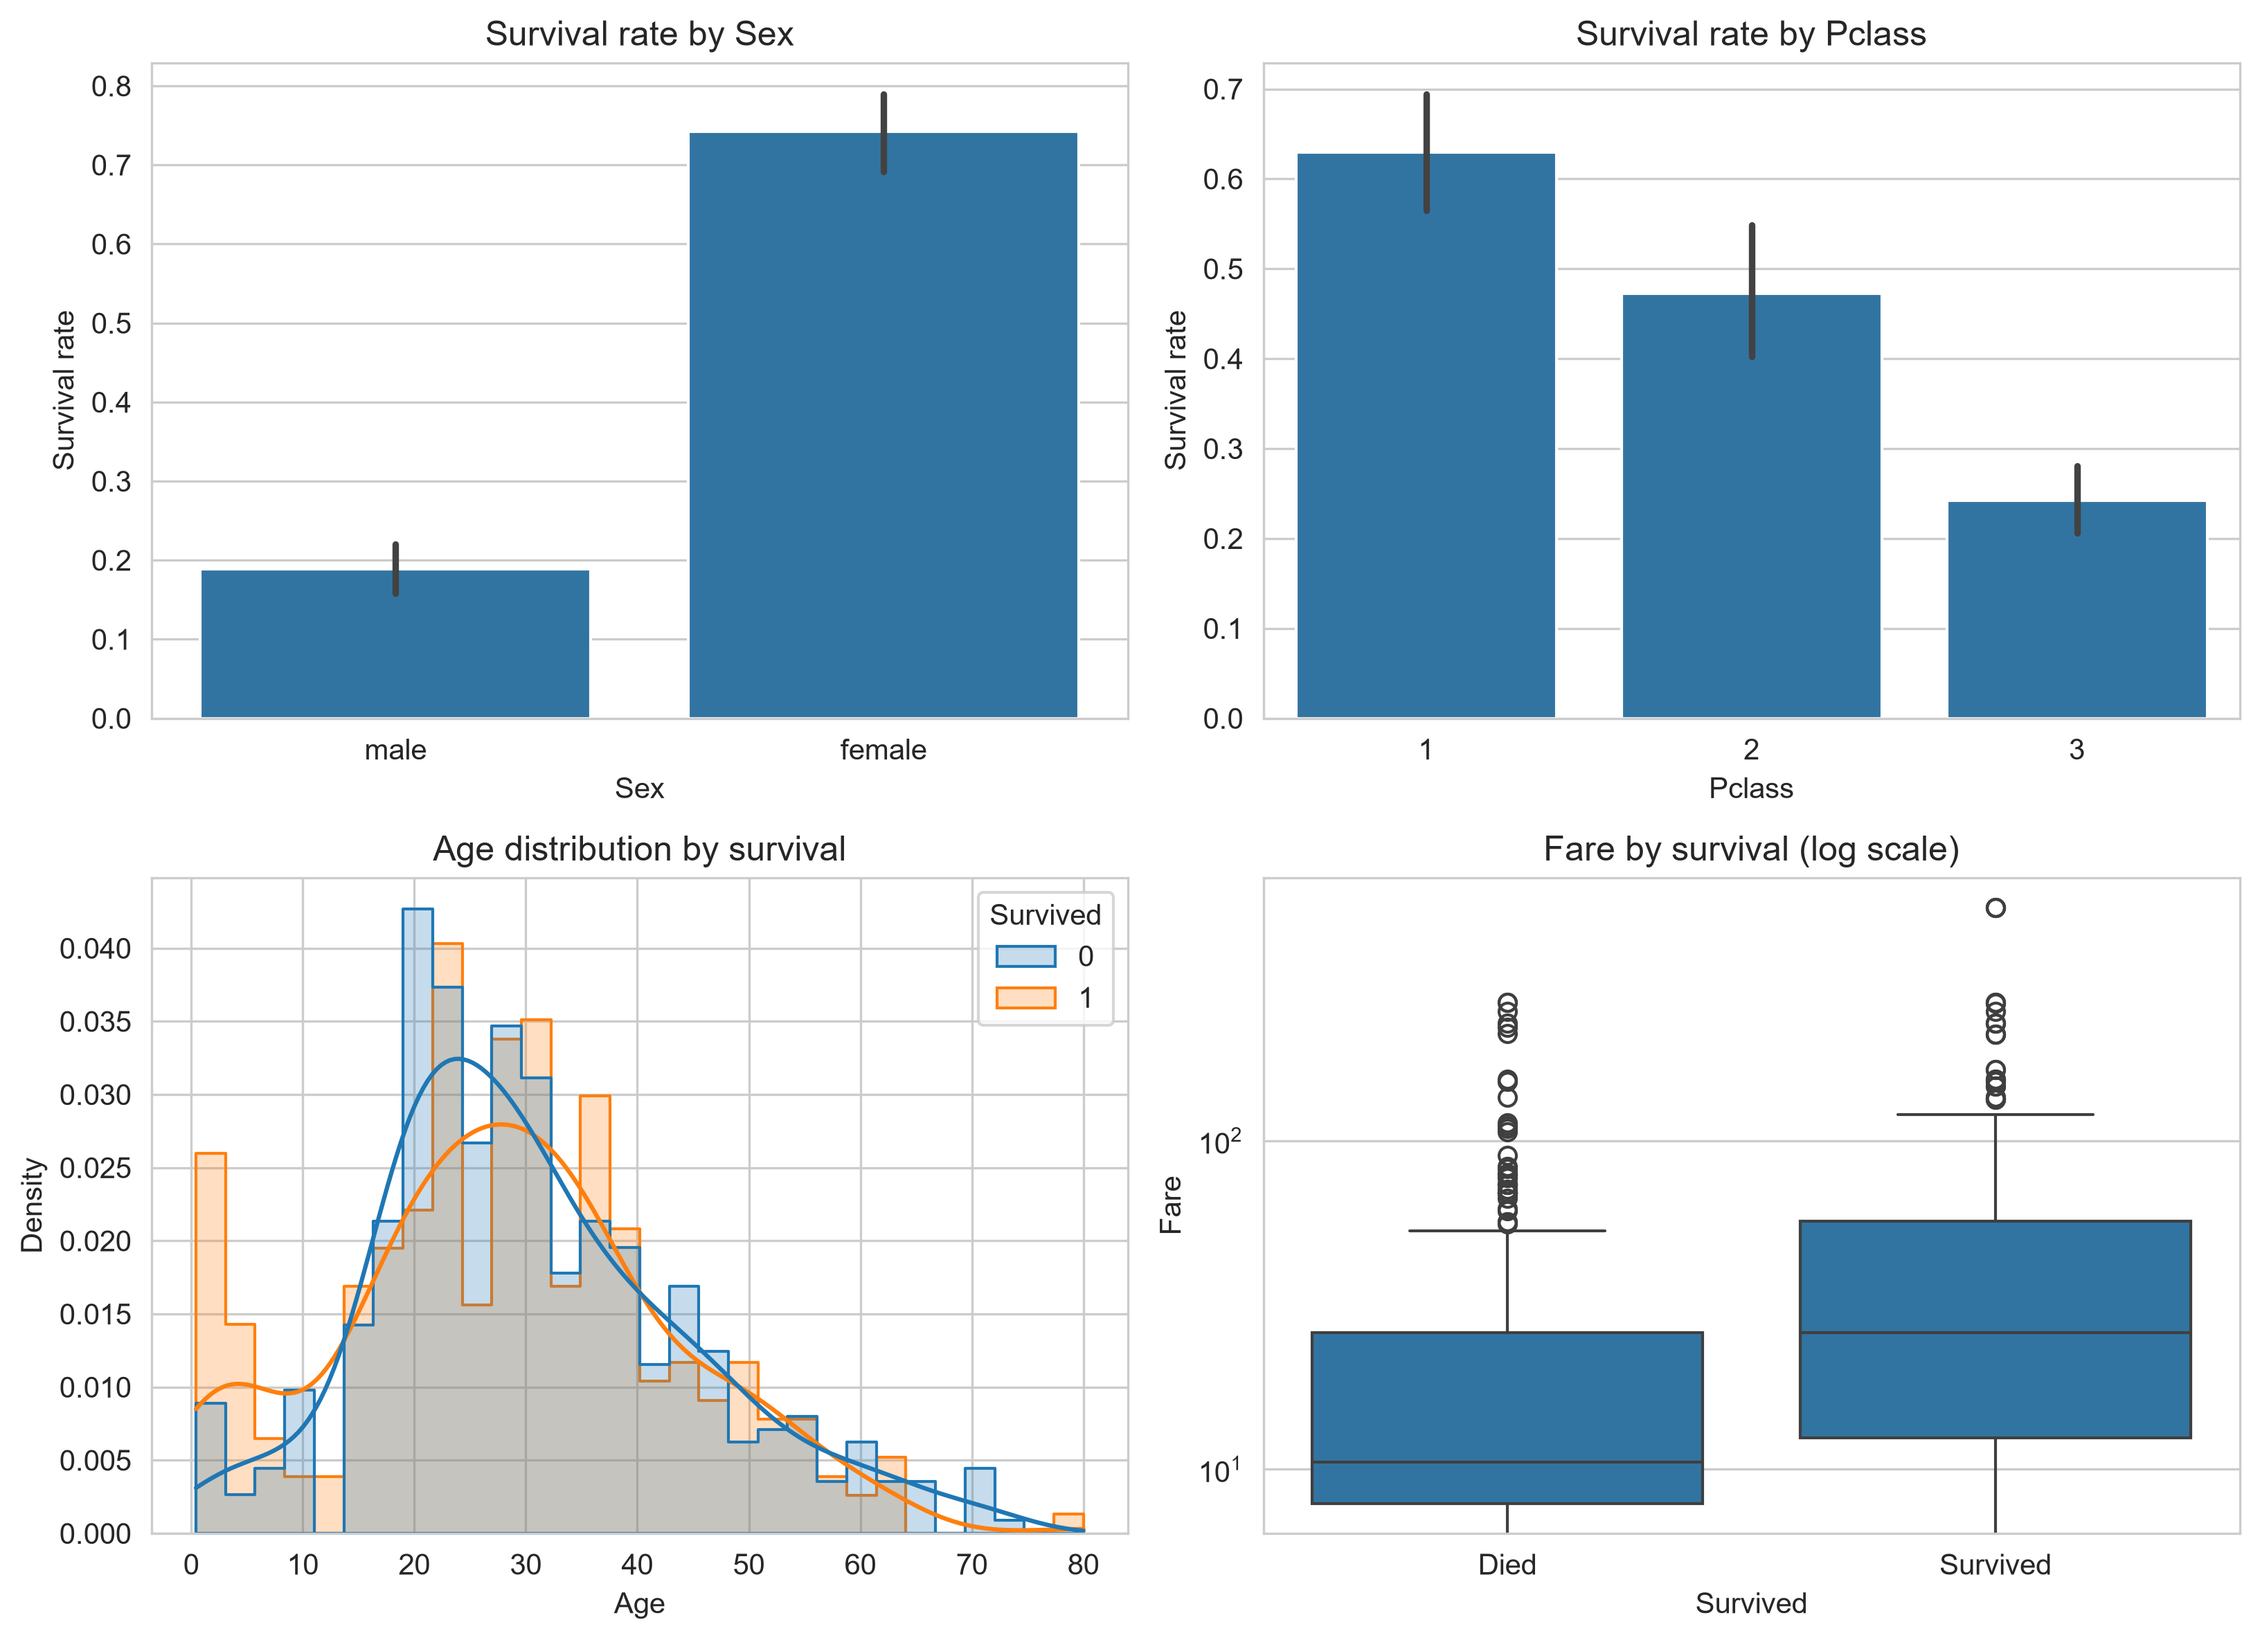
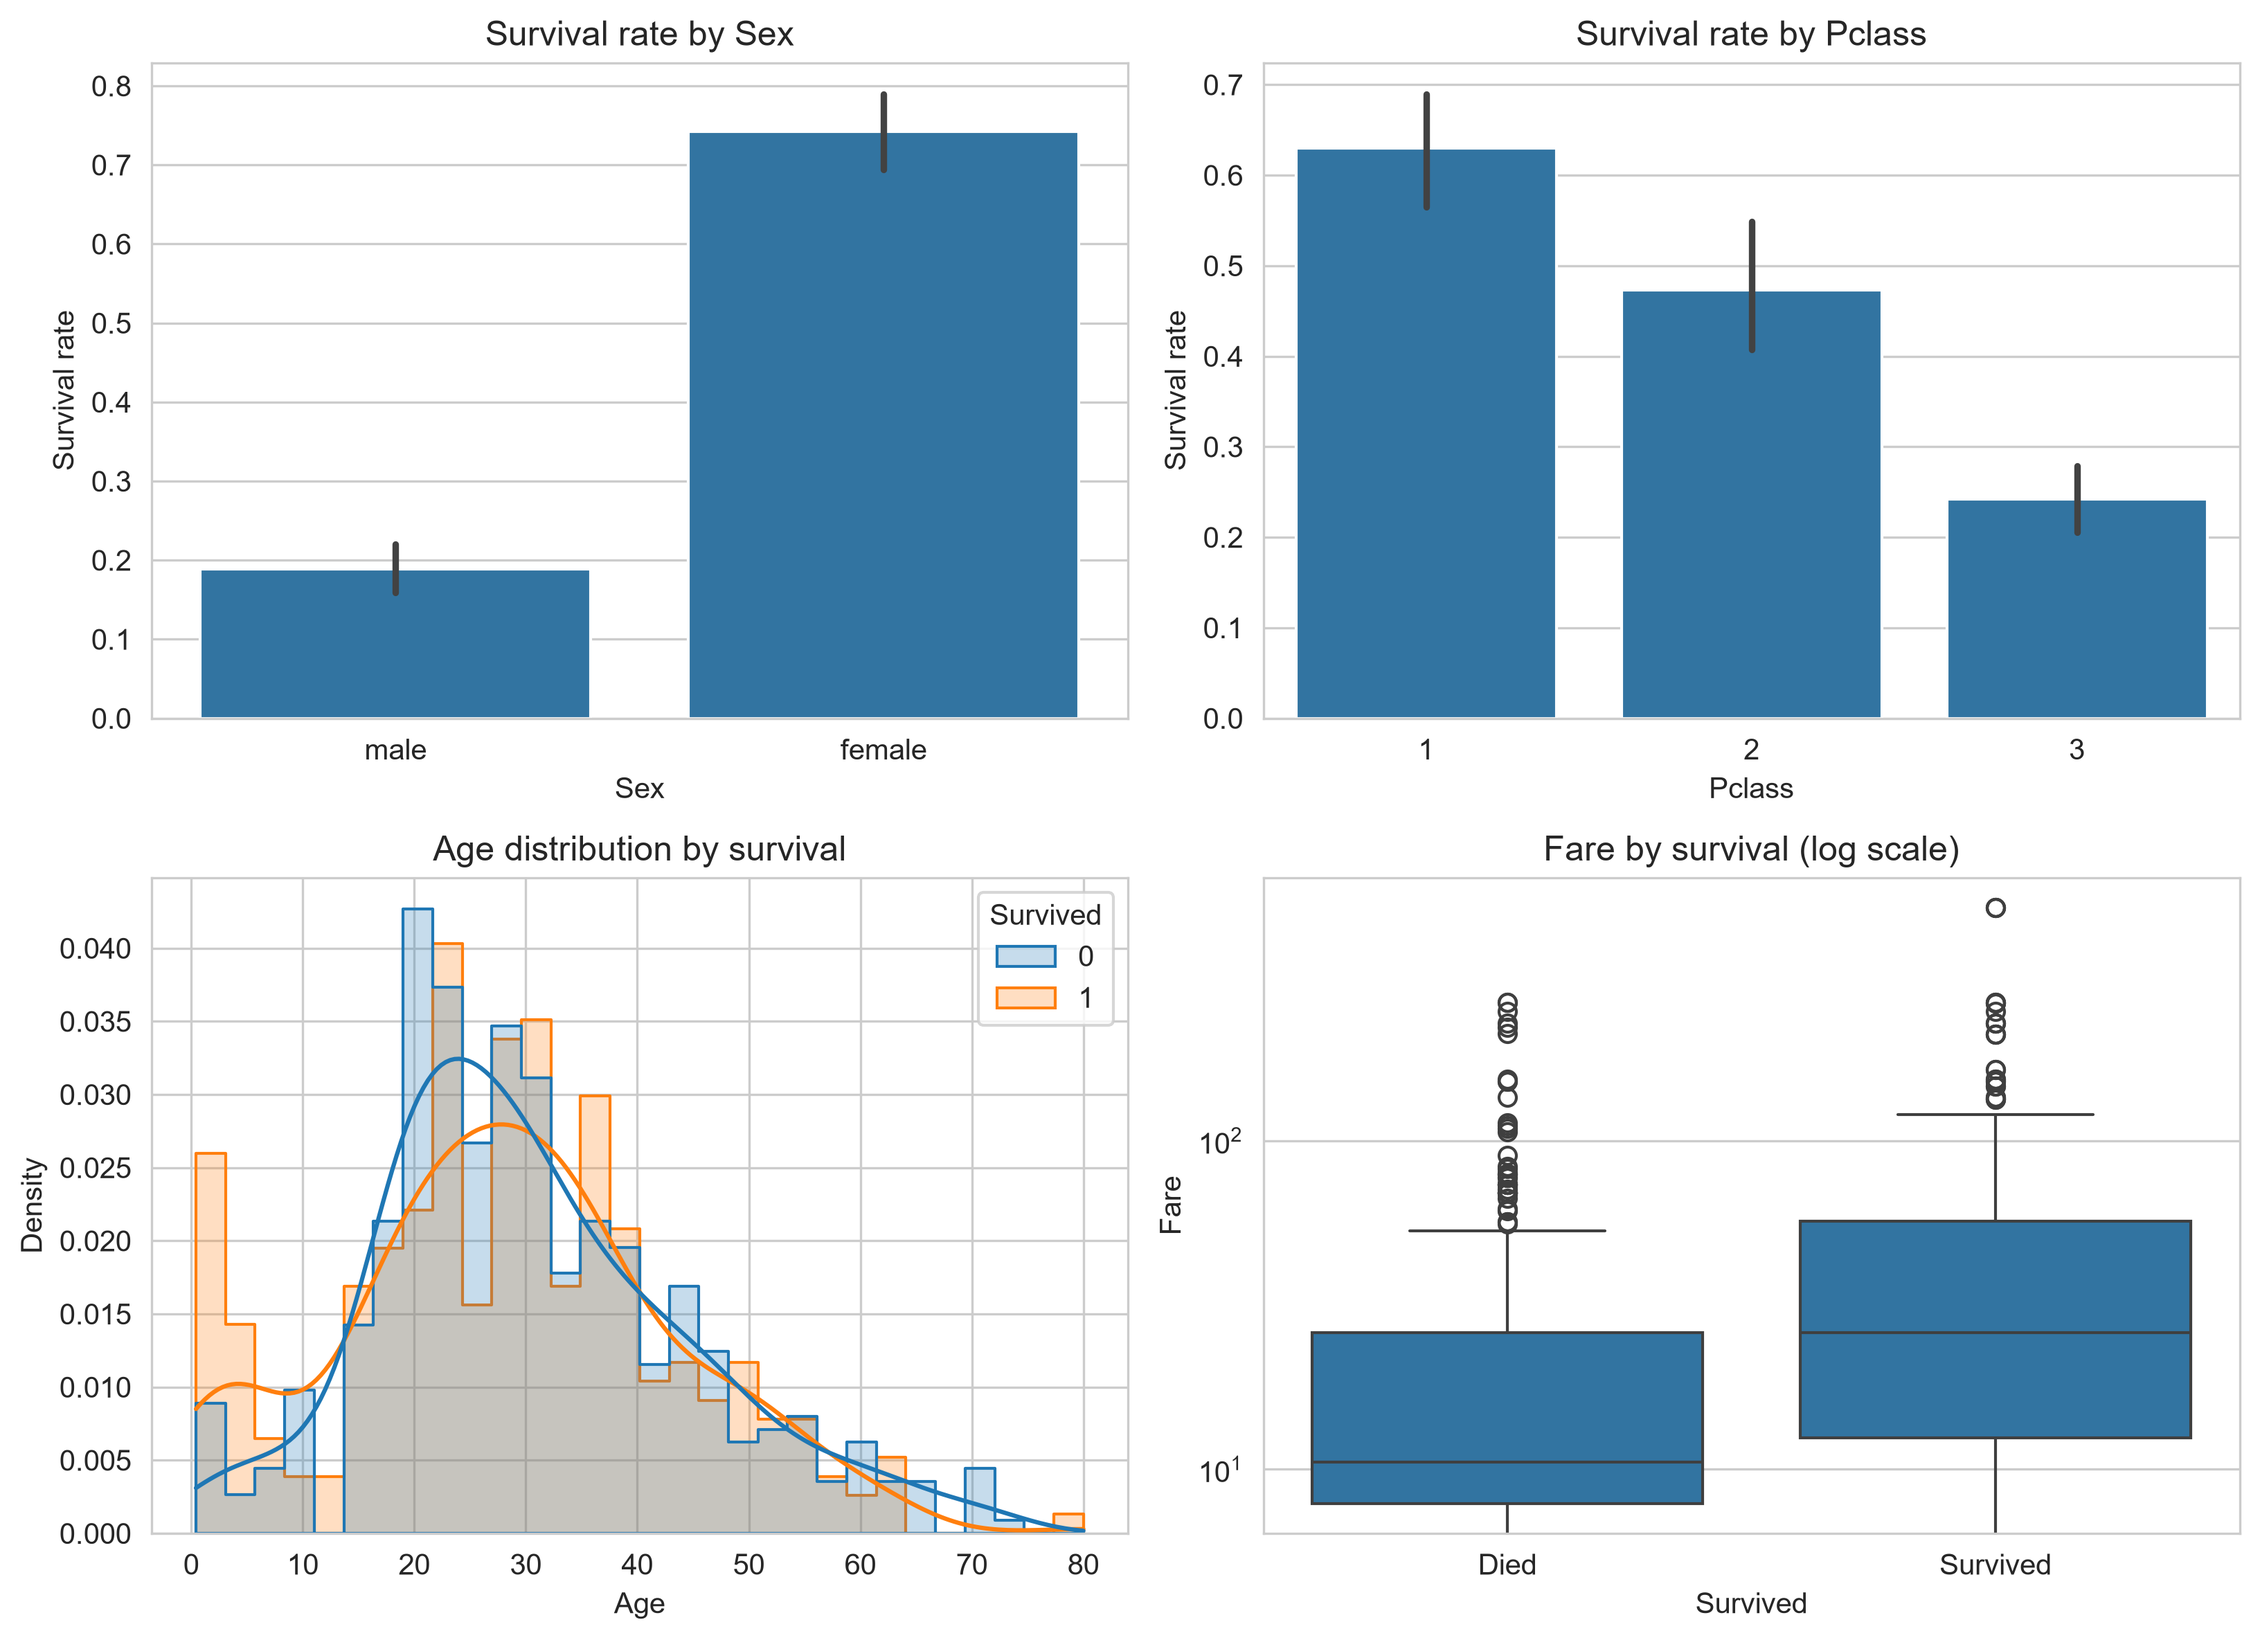
modified notebook

diff --git a/src/manual_tree.py b/src/manual_tree.py
@@ -128,15 +128,16 @@ class DecisionTree:
         return self._traverse(x, node.right)
 
     
-def print_tree(node, depth=0):
+def print_tree(node, depth=0, branch=""):
 
     indent = "│   " * depth
 
     if node.value is not None:
-        print(indent + f"└── Leaf: Class {node.value}")
+        print(indent + f"└── {branch}Leaf: Class {node.value}")
         return
 
-    print(indent + f"├── X[{node.feature}] <= {node.threshold:.3f}")
+    print(indent + f"├── {branch}X[{node.feature}] <= {node.threshold:.3f}")
 
-    print_tree(node.left, depth + 1)
-    print_tree(node.right, depth + 1)
+    print_tree(node.left, depth + 1, branch="[<=] ")
+    print_tree(node.right, depth + 1, branch="[> ] ")
+    
